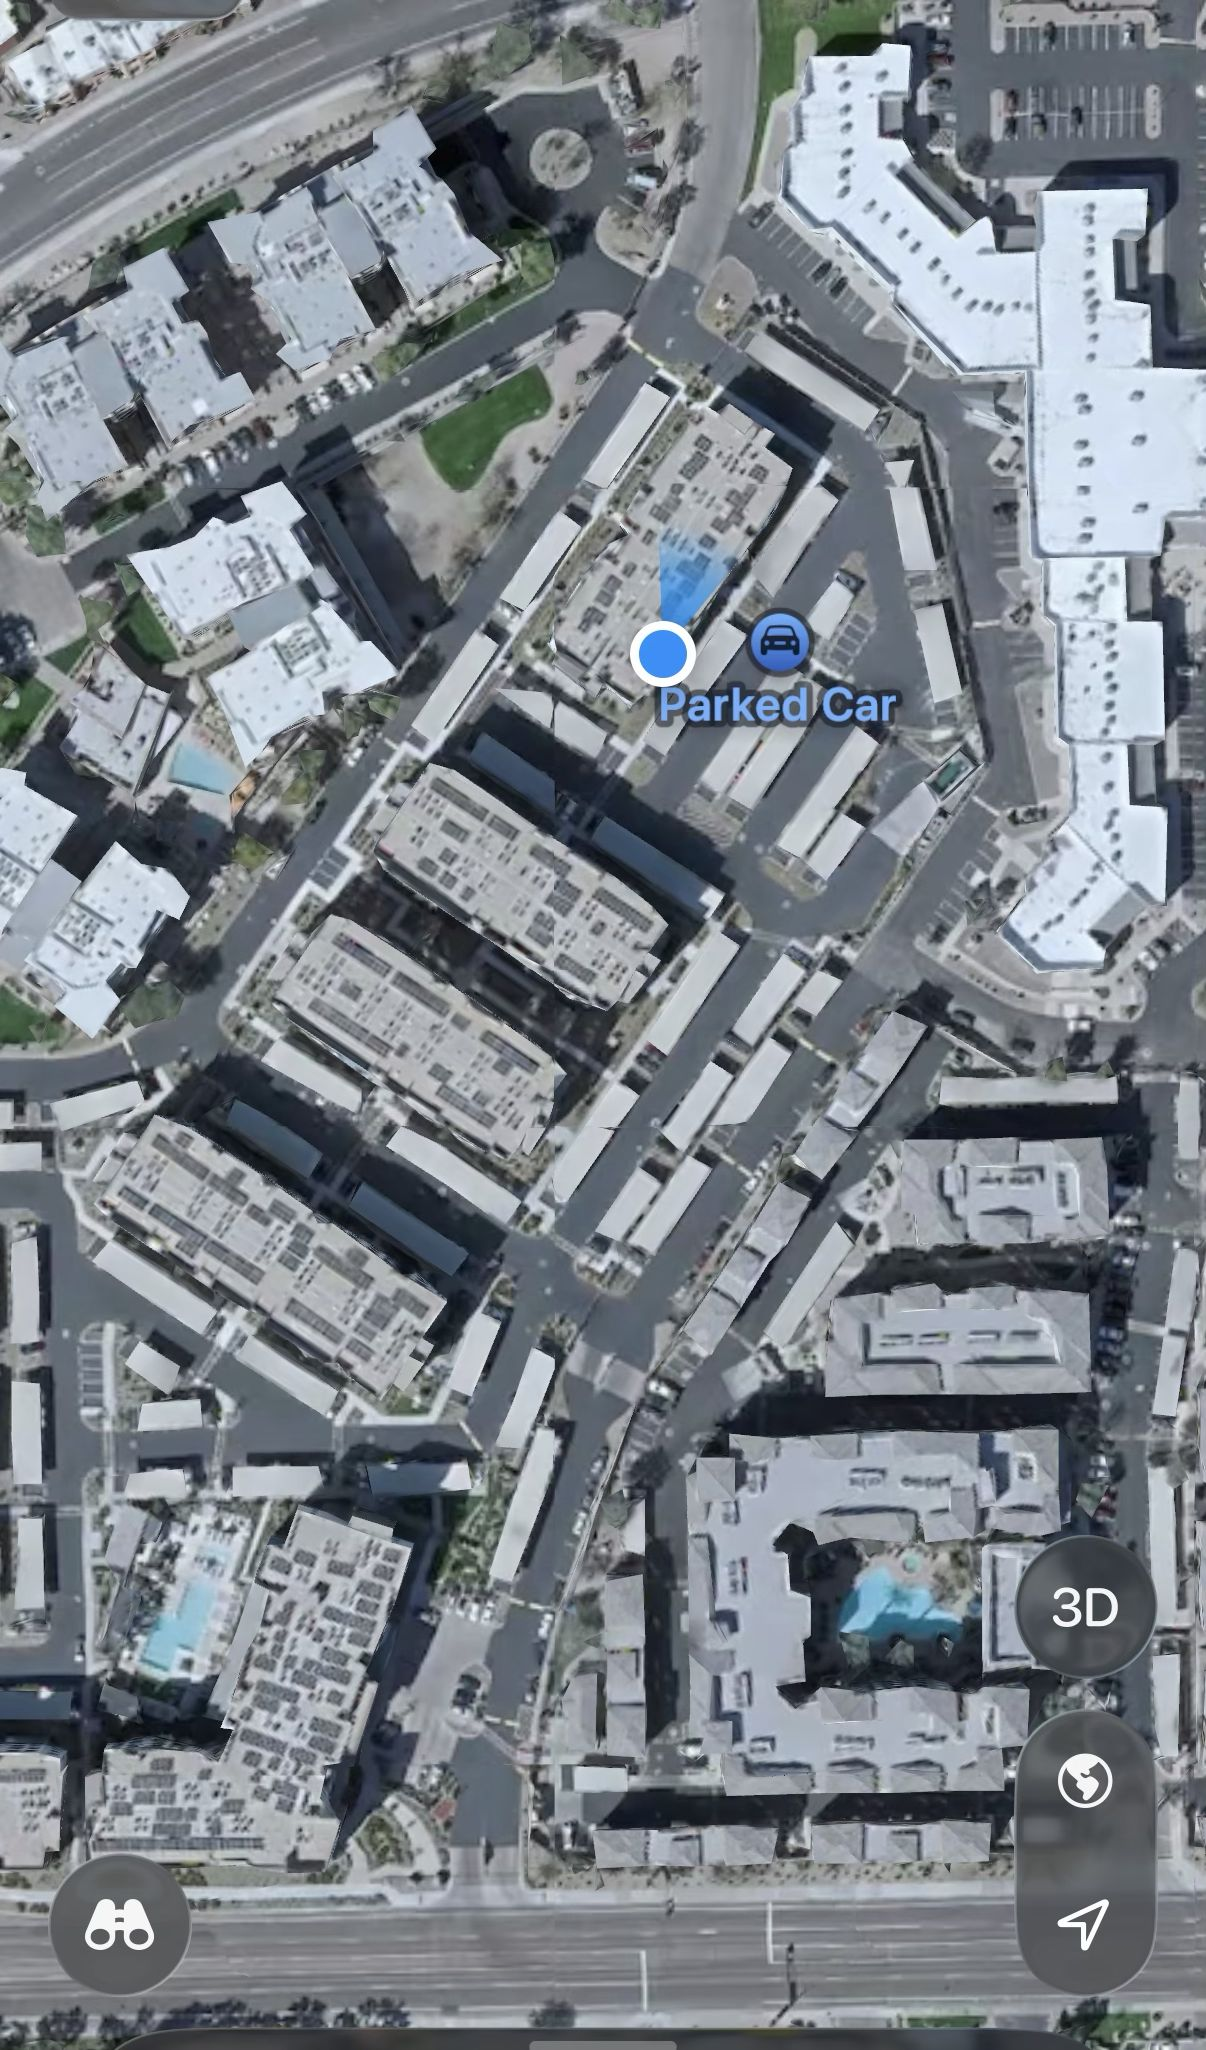
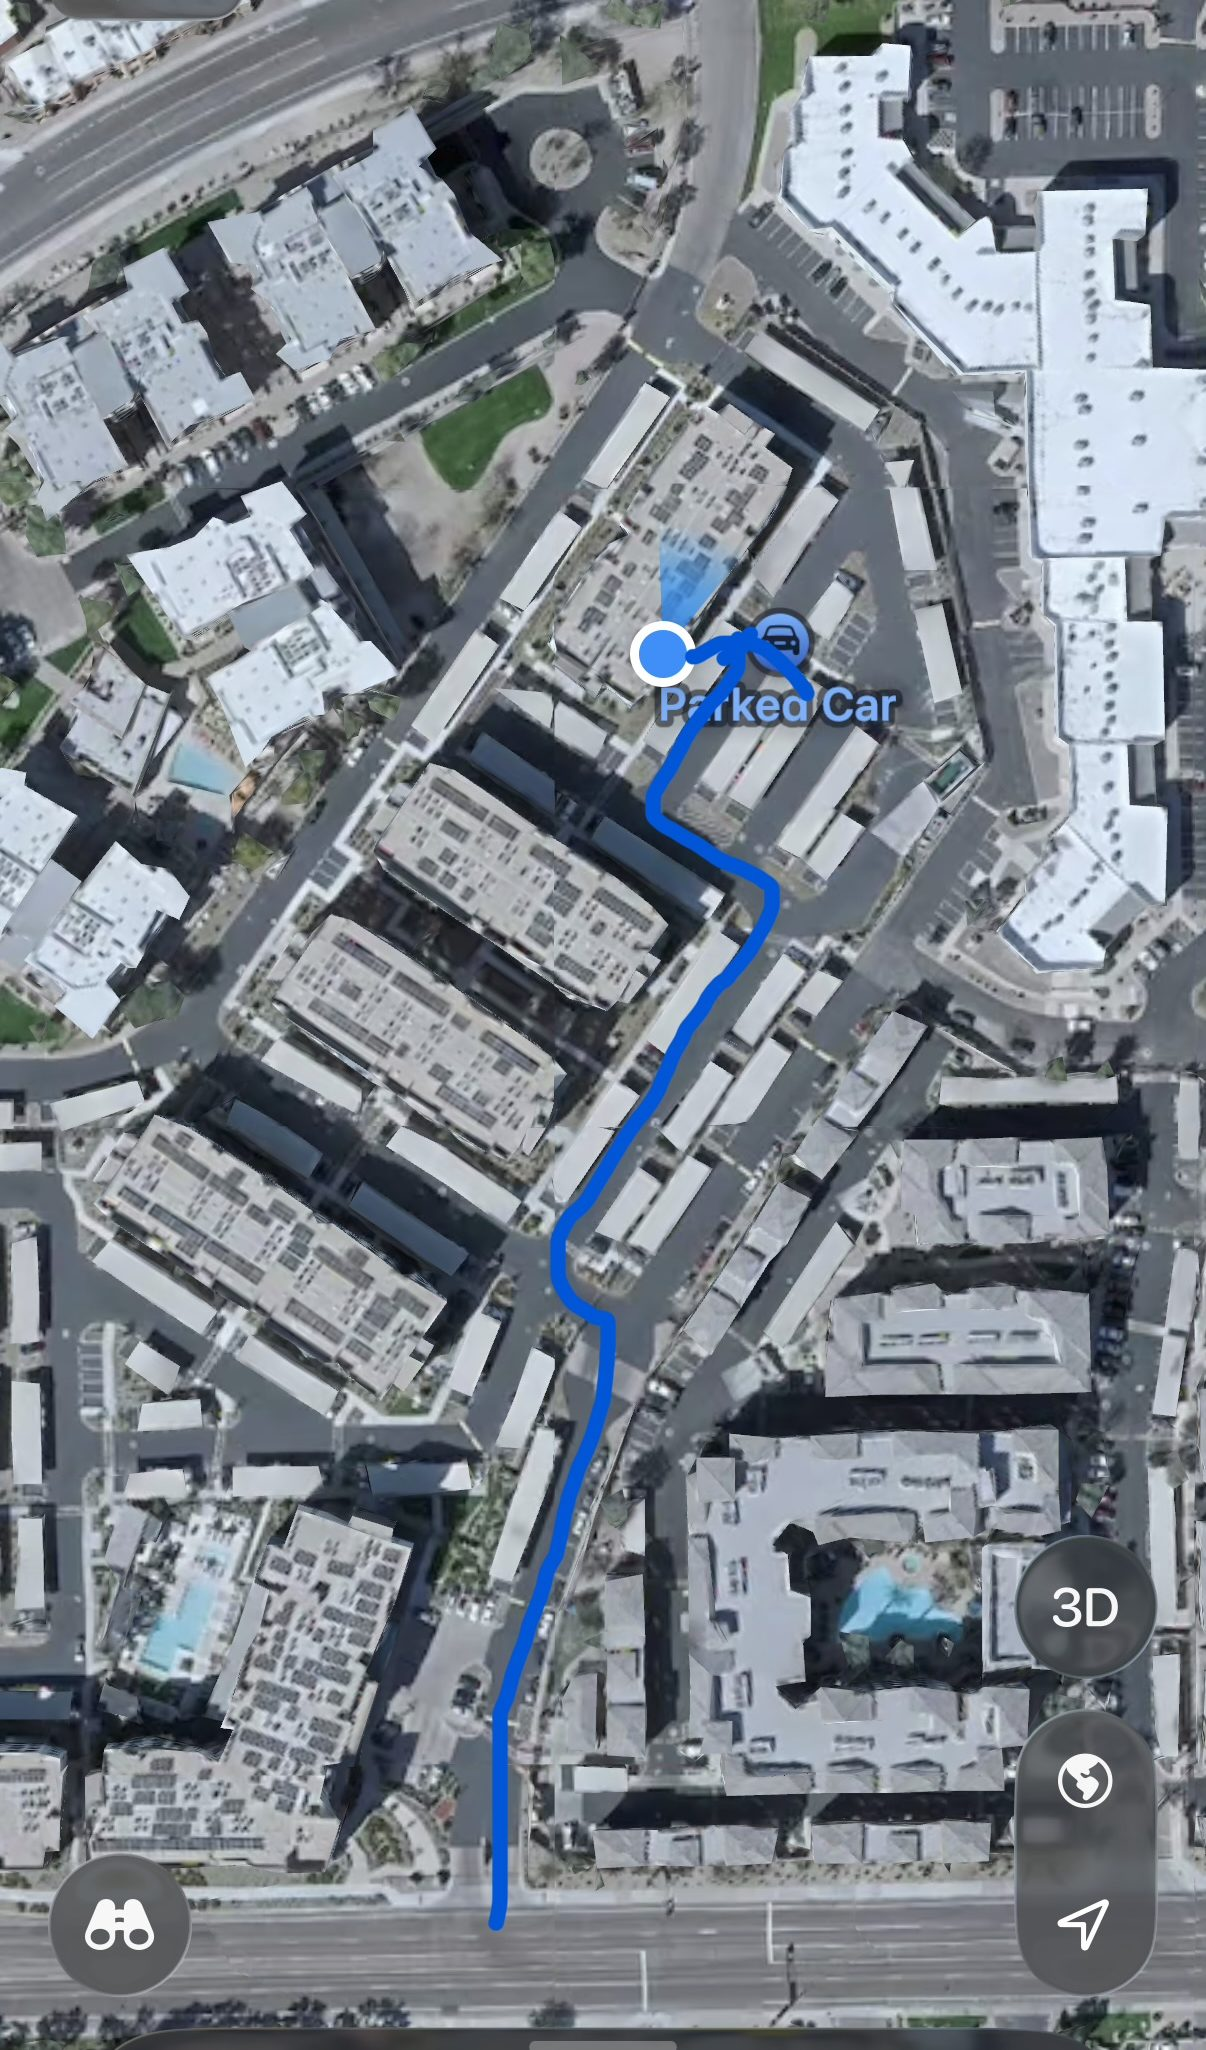
Use the actual traced route photo instead of a guessed path
Swap in the satellite screenshot with the real drive already marked
in blue, and drop the hand-drawn SVG path that didn't match it.
Keep a small ring on the gate as the only added marker.

Changed region(s): [[0.4295, 0.4683, 0.6136, 0.8117], [0.5216, 0.281, 0.675, 0.4683], [0.3988, 0.8117, 0.4295, 0.9366]]

diff --git a/delivery-directions/index.html b/delivery-directions/index.html
@@ -97,20 +97,6 @@
         <div class="photo-card">
             <img src="images/close-satellite.jpg" alt="Satellite photo with the drive from Curry Rd to the gate marked in blue">
             <svg viewBox="0 0 1206 2050" preserveAspectRatio="none" xmlns="http://www.w3.org/2000/svg">
-                <defs>
-                    <marker id="arrow" viewBox="0 0 10 10" refX="8" refY="5" markerWidth="7" markerHeight="7" orient="auto-start-reverse">
-                        <path d="M0,0 L10,5 L0,10 z" fill="#2563eb"/>
-                    </marker>
-                </defs>
-                <path d="M 490,2050
-                         C 500,1950 508,1850 515,1780
-                         C 525,1680 545,1580 560,1520
-                         C 580,1440 595,1370 600,1310
-                         C 608,1220 625,1160 650,1140
-                         C 700,1110 750,1145 770,1140
-                         C 760,1050 735,970 720,900
-                         C 700,810 675,730 662,655"
-                      fill="none" stroke="#2563eb" stroke-width="12" stroke-linecap="round" opacity="0.92" marker-end="url(#arrow)"/>
                 <circle cx="662" cy="649" r="40" fill="none" stroke="#ffd400" stroke-width="8"/>
             </svg>
         </div>
